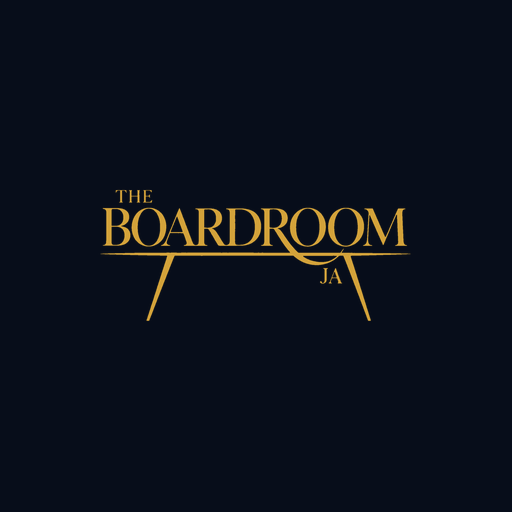
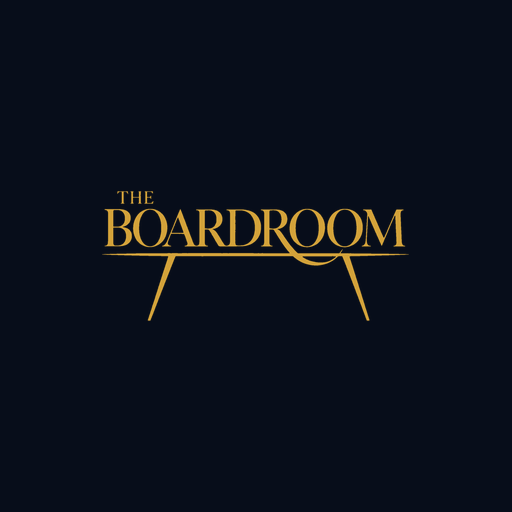
Add files via upload

Changed region(s): [[0.1875, 0.375, 0.8125, 0.625], [0.2812, 0.5625, 0.3125, 0.625]]

diff --git a/public/sw.js b/public/sw.js
@@ -1,11 +1,11 @@
-/* The Boardroom JA service worker: phone notifications only. It does not cache pages, so updates always arrive. */
+/* The Boardroom service worker: phone notifications only. It does not cache pages, so updates always arrive. */
 self.addEventListener('install', () => self.skipWaiting());
 self.addEventListener('activate', (e) => e.waitUntil(self.clients.claim()));
 
 self.addEventListener('push', (event) => {
   let d = {};
-  try { d = event.data ? event.data.json() : {}; } catch { d = { title: 'The Boardroom JA', body: event.data ? event.data.text() : '' }; }
-  const title = String(d.title || 'The Boardroom JA').slice(0, 120);
+  try { d = event.data ? event.data.json() : {}; } catch { d = { title: 'The Boardroom', body: event.data ? event.data.text() : '' }; }
+  const title = String(d.title || 'The Boardroom').slice(0, 120);
   event.waitUntil(self.registration.showNotification(title, {
     body: String(d.body || '').slice(0, 200),
     icon: '/icon-192.png',
